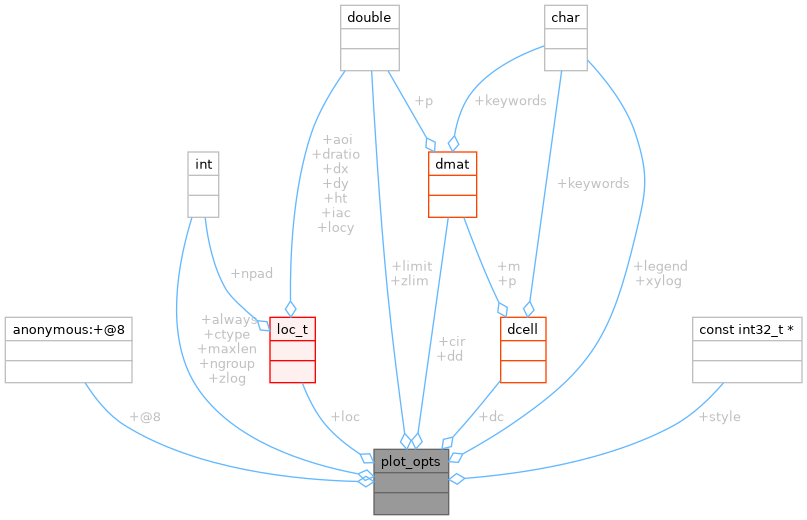
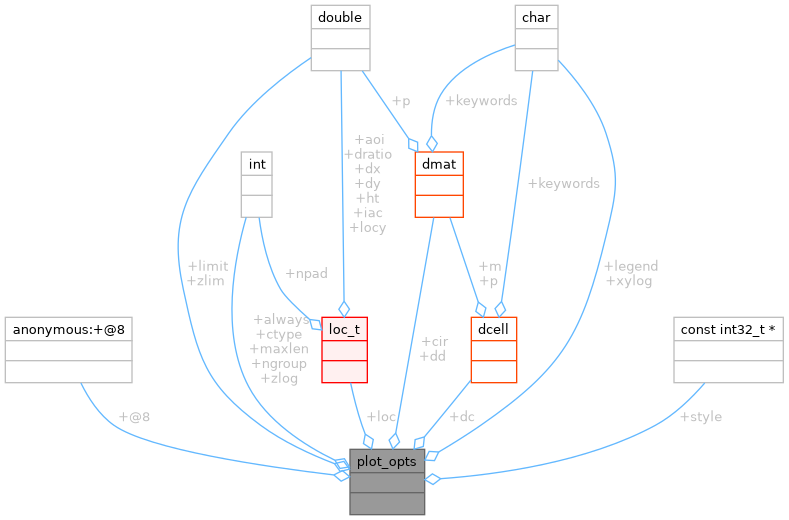
Automatically updated

diff --git a/de/d28/draw_8h.html b/de/d28/draw_8h.html
@@ -162,29 +162,29 @@ int&#160;</td><td class="memItemRight" valign="bottom"><b>draw_current_format</b
 <div id="dynsection-0-content" class="dyncontent" style="display:none;">
 <div class="center"><img src="../../d6/dd8/structplot__opts__coll__graph.png" border="0" usemap="#aplot__opts_coll__map" alt="Collaboration graph"/></div>
 <map name="aplot__opts_coll__map" id="aplot__opts_coll__map">
-<area shape="rect" title=" " alt="" coords="374,449,449,515"/>
+<area shape="rect" title=" " alt="" coords="350,449,425,515"/>
 <area shape="rect" title=" " alt="" coords="5,317,132,383"/>
-<area shape="poly" title=" " alt="" coords="87,381,104,404,126,423,184,450,246,467,306,476,358,479,358,484,306,481,245,472,182,455,123,428,100,408,83,384"/>
-<area shape="rect" title=" " alt="" coords="188,152,219,217"/>
-<area shape="poly" title=" " alt="" coords="195,218,185,255,179,299,183,344,189,365,199,385,214,404,231,420,272,444,317,461,358,471,357,476,315,466,270,449,228,424,210,407,194,388,184,367,177,345,174,299,180,254,189,217"/>
-<area shape="rect" href="../../df/def/type_8h.html#da/ddc/structloc__t" title=" " alt="" coords="270,317,315,383"/>
-<area shape="poly" title=" " alt="" coords="208,217,214,253,228,288,259,319,255,322,224,291,209,254,203,218"/>
-<area shape="poly" title=" " alt="" coords="305,382,315,403,328,424,362,452,358,456,324,427,310,406,300,384"/>
-<area shape="rect" title=" " alt="" coords="341,5,399,71"/>
-<area shape="poly" title=" " alt="" coords="374,71,390,289,407,433,402,434,385,290,369,71"/>
-<area shape="poly" title=" " alt="" coords="347,72,329,102,314,134,303,177,296,221,293,301,288,301,291,221,298,176,309,132,324,99,343,69"/>
-<area shape="rect" href="../../d3/d27/structdmat.html" title=" " alt="" coords="429,152,477,217"/>
-<area shape="poly" title=" " alt="" coords="390,70,429,136,424,139,386,72"/>
-<area shape="poly" title=" " alt="" coords="451,218,421,433,415,433,446,217"/>
-<area shape="rect" href="../../df/def/type_8h.html#df/d47/structdcell" title=" " alt="" coords="501,317,546,383"/>
-<area shape="poly" title=" " alt="" coords="466,217,495,288,501,301,496,303,490,290,461,219"/>
-<area shape="rect" title=" " alt="" coords="545,5,587,71"/>
-<area shape="poly" title=" " alt="" coords="590,58,616,91,638,132,645,161,647,184,638,237,620,300,597,348,563,388,512,428,464,456,462,452,508,423,560,384,593,345,615,298,633,235,642,184,640,162,633,134,612,94,586,62"/>
-<area shape="poly" title=" " alt="" coords="546,48,507,66,488,79,472,96,462,115,457,136,452,135,458,113,468,93,484,75,504,61,543,43"/>
-<area shape="poly" title=" " alt="" coords="564,71,533,302,527,301,559,70"/>
-<area shape="poly" title=" " alt="" coords="503,382,465,427,455,439,451,435,461,424,498,379"/>
-<area shape="rect" title=" " alt="" coords="693,317,802,383"/>
-<area shape="poly" title=" " alt="" coords="725,385,703,408,675,428,622,451,566,466,512,476,465,481,465,476,511,471,565,461,620,446,673,423,699,404,721,381"/>
+<area shape="poly" title=" " alt="" coords="83,382,97,404,115,423,154,440,211,454,334,472,333,478,210,459,152,445,113,428,93,408,79,384"/>
+<area shape="rect" title=" " alt="" coords="311,5,370,71"/>
+<area shape="poly" title=" " alt="" coords="313,60,271,92,231,135,204,174,187,208,181,244,186,289,196,333,209,366,229,394,262,423,298,445,336,461,333,466,296,450,259,427,225,398,204,369,191,334,181,290,176,243,182,206,200,171,227,132,267,88,310,55"/>
+<area shape="rect" href="../../df/def/type_8h.html#da/ddc/structloc__t" title=" " alt="" coords="322,317,367,383"/>
+<area shape="poly" title=" " alt="" coords="344,71,347,301,341,301,338,71"/>
+<area shape="rect" href="../../d3/d27/structdmat.html" title=" " alt="" coords="415,152,463,217"/>
+<area shape="poly" title=" " alt="" coords="365,69,411,137,406,140,360,72"/>
+<area shape="rect" title=" " alt="" coords="241,152,272,217"/>
+<area shape="poly" title=" " alt="" coords="249,218,240,254,235,297,237,343,251,385,267,409,288,428,336,458,333,462,285,433,263,412,246,388,232,344,230,297,235,253,244,217"/>
+<area shape="poly" title=" " alt="" coords="262,217,269,253,283,288,311,317,307,321,278,291,264,254,257,218"/>
+<area shape="poly" title=" " alt="" coords="353,382,365,425,368,433,363,435,359,426,348,383"/>
+<area shape="poly" title=" " alt="" coords="436,218,398,433,393,433,431,217"/>
+<area shape="rect" href="../../df/def/type_8h.html#df/d47/structdcell" title=" " alt="" coords="471,317,517,383"/>
+<area shape="poly" title=" " alt="" coords="452,217,477,288,481,301,476,303,471,290,447,219"/>
+<area shape="rect" title=" " alt="" coords="515,5,558,71"/>
+<area shape="poly" title=" " alt="" coords="560,58,587,91,608,132,616,161,618,184,609,237,591,300,568,347,534,387,482,428,440,454,437,450,479,423,530,383,563,344,586,298,603,235,613,184,611,162,604,134,583,94,556,62"/>
+<area shape="poly" title=" " alt="" coords="516,47,477,65,458,78,443,96,436,115,434,136,429,135,431,114,438,93,454,74,474,60,514,43"/>
+<area shape="poly" title=" " alt="" coords="535,71,506,290,504,302,499,301,501,289,530,71"/>
+<area shape="poly" title=" " alt="" coords="473,382,436,427,426,439,422,435,432,424,469,378"/>
+<area shape="rect" title=" " alt="" coords="674,317,783,383"/>
+<area shape="poly" title=" " alt="" coords="707,385,684,408,657,428,602,451,544,467,489,476,441,481,440,476,488,471,543,462,600,446,654,423,681,404,703,381"/>
 </map>
 </div>
 <table class="fieldtable">
@@ -193,42 +193,6 @@ int&#160;</td><td class="memItemRight" valign="bottom"><b>draw_current_format</b
 <a id="a58aabed6678863f74043f106b872a874" name="a58aabed6678863f74043f106b872a874"></a>union <a class="el" href="../../de/d28/draw_8h.html#dd/d34/unionplot__opts_8____unnamed8____">plot_opts.__unnamed8__</a></td>
 <td class="fieldname">
 __unnamed__</td>
-<td class="fielddoc">
-</td></tr>
-<tr><td class="fieldtype">
-<a id="a45aba71d793c975b2917a795c68a2083" name="a45aba71d793c975b2917a795c68a2083"></a>int</td>
-<td class="fieldname">
-ngroup</td>
-<td class="fielddoc">
-</td></tr>
-<tr><td class="fieldtype">
-<a id="ac21e46b3e42072d5401f11d728402070" name="ac21e46b3e42072d5401f11d728402070"></a>int</td>
-<td class="fieldname">
-maxlen</td>
-<td class="fielddoc">
-number of lines </td></tr>
-<tr><td class="fieldtype">
-<a id="a21f274cacd6006de0eab6a2ac12a0875" name="a21f274cacd6006de0eab6a2ac12a0875"></a><a class="el" href="../../df/def/type_8h.html#da/ddc/structloc__t">loc_t</a> **</td>
-<td class="fieldname">
-loc</td>
-<td class="fielddoc">
-limit maximum nx </td></tr>
-<tr><td class="fieldtype">
-<a id="ab5f7fddc86d50ca44c53b141b72e509a" name="ab5f7fddc86d50ca44c53b141b72e509a"></a><a class="el" href="../../d3/d27/structdmat.html">dmat</a> **</td>
-<td class="fieldname">
-dd</td>
-<td class="fielddoc">
-</td></tr>
-<tr><td class="fieldtype">
-<a id="a7e74316d7e62b72c8bbe0aeb3471a081" name="a7e74316d7e62b72c8bbe0aeb3471a081"></a>const <a class="el" href="../../df/def/type_8h.html#df/d47/structdcell">dcell</a> *</td>
-<td class="fieldname">
-dc</td>
-<td class="fielddoc">
-</td></tr>
-<tr><td class="fieldtype">
-<a id="a2aed35de5578898c2c69cc3a6722c725" name="a2aed35de5578898c2c69cc3a6722c725"></a>const int32_t *</td>
-<td class="fieldname">
-style</td>
 <td class="fielddoc">
 </td></tr>
 <tr><td class="fieldtype">
@@ -253,6 +217,42 @@ zlog</td>
 <a id="a63f75aca74bd384d75bc1e09e38cb0c5" name="a63f75aca74bd384d75bc1e09e38cb0c5"></a>const int</td>
 <td class="fieldname">
 ctype</td>
+<td class="fielddoc">
+</td></tr>
+<tr><td class="fieldtype">
+<a id="a45aba71d793c975b2917a795c68a2083" name="a45aba71d793c975b2917a795c68a2083"></a>int</td>
+<td class="fieldname">
+ngroup</td>
+<td class="fielddoc">
+</td></tr>
+<tr><td class="fieldtype">
+<a id="ac21e46b3e42072d5401f11d728402070" name="ac21e46b3e42072d5401f11d728402070"></a>int</td>
+<td class="fieldname">
+maxlen</td>
+<td class="fielddoc">
+number of lines. 0: automatic </td></tr>
+<tr><td class="fieldtype">
+<a id="a21f274cacd6006de0eab6a2ac12a0875" name="a21f274cacd6006de0eab6a2ac12a0875"></a><a class="el" href="../../df/def/type_8h.html#da/ddc/structloc__t">loc_t</a> **</td>
+<td class="fieldname">
+loc</td>
+<td class="fielddoc">
+maximum nx to plot </td></tr>
+<tr><td class="fieldtype">
+<a id="ab5f7fddc86d50ca44c53b141b72e509a" name="ab5f7fddc86d50ca44c53b141b72e509a"></a><a class="el" href="../../d3/d27/structdmat.html">dmat</a> **</td>
+<td class="fieldname">
+dd</td>
+<td class="fielddoc">
+</td></tr>
+<tr><td class="fieldtype">
+<a id="a7e74316d7e62b72c8bbe0aeb3471a081" name="a7e74316d7e62b72c8bbe0aeb3471a081"></a>const <a class="el" href="../../df/def/type_8h.html#df/d47/structdcell">dcell</a> *</td>
+<td class="fieldname">
+dc</td>
+<td class="fielddoc">
+</td></tr>
+<tr><td class="fieldtype">
+<a id="a2aed35de5578898c2c69cc3a6722c725" name="a2aed35de5578898c2c69cc3a6722c725"></a>const int32_t *</td>
+<td class="fieldname">
+style</td>
 <td class="fielddoc">
 </td></tr>
 <tr><td class="fieldtype">

diff --git a/search/variables_b.js b/search/variables_b.js
@@ -9,7 +9,7 @@ var searchData=
   ['maxthread_6',['MAXTHREAD',['../da/d42/process_8h.html#aaf201d9c154f29dd2853b04a1ec9533f',1,'process.c']]],
   ['mbias_7',['mbias',['../d6/d94/maos_2types_8h.html#abd26885c51687b07f15a7438603bcacd',1,'ngsmod_t::Mbias'],['../d6/d94/maos_2types_8h.html#a7cd066322923153ad7017641207677d3',1,'sim_t::Mbias']]],
   ['mbinv_8',['Mbinv',['../d6/d94/maos_2types_8h.html#ad0e43cd4a0ccf988001caf1fb04b8cbb',1,'fdpcg_t']]],
-  ['mcc_9',['mcc',['../d6/d94/maos_2types_8h.html#a58140cc6c4f3719762527d79564ae797',1,'ngsmod_t::MCC'],['../d6/d94/maos_2types_8h.html#a14fef4d4fa3e3e07f6aab1dacd9cdda5',1,'llt_t::mcc']]],
+  ['mcc_9',['mcc',['../d6/d94/maos_2types_8h.html#a14fef4d4fa3e3e07f6aab1dacd9cdda5',1,'llt_t::mcc'],['../d6/d94/maos_2types_8h.html#a58140cc6c4f3719762527d79564ae797',1,'ngsmod_t::MCC']]],
   ['mccp_10',['MCCP',['../d6/d94/maos_2types_8h.html#a19b11645d2b5beb485409dc0d18a3416',1,'ngsmod_t']]],
   ['mccu_11',['MCCu',['../d6/d94/maos_2types_8h.html#ac538ab602aefc638055c95ae48c7795e',1,'ngsmod_t']]],
   ['mdata_12',['Mdata',['../d3/dc7/muv_8h.html#aa30689f9fb9ae039a0fc04175ba7134d',1,'muv_t']]],
@@ -67,7 +67,7 @@ var searchData=
   ['mva_64',['MVA',['../d6/d94/maos_2types_8h.html#ad5dbb605c4c0a76ac31494bb3f705890',1,'recon_t']]],
   ['mvfm_65',['MVFM',['../d6/d94/maos_2types_8h.html#ae2fee7d4211a1cf9fd8131534944cbbe',1,'recon_t']]],
   ['mvgm_66',['MVGM',['../d6/d94/maos_2types_8h.html#a7ff7b32ce8673b59b357331ac46108c9',1,'recon_t']]],
-  ['mvm_67',['mvm',['../d6/d94/maos_2types_8h.html#a64905f799b035a2bef86639f9b05125e',1,'recon_t::MVM'],['../d4/d38/parms_8h.html#a9d9f17deafa9a0dcc11f8934548b230d',1,'save_cfg_t::mvm'],['../d4/d38/parms_8h.html#a3a42d00f6d686f813ec7edbcee448c5d',1,'load_cfg_t::mvm'],['../d4/d38/parms_8h.html#a368695bc152258fd6d6af9d2439588fa',1,'recon_cfg_t::mvm']]],
+  ['mvm_67',['mvm',['../d4/d38/parms_8h.html#a368695bc152258fd6d6af9d2439588fa',1,'recon_cfg_t::mvm'],['../d6/d94/maos_2types_8h.html#a64905f799b035a2bef86639f9b05125e',1,'recon_t::MVM'],['../d4/d38/parms_8h.html#a9d9f17deafa9a0dcc11f8934548b230d',1,'save_cfg_t::mvm'],['../d4/d38/parms_8h.html#a3a42d00f6d686f813ec7edbcee448c5d',1,'load_cfg_t::mvm']]],
   ['mvmf_68',['mvmf',['../d4/d38/parms_8h.html#a3f479c281d1377566c69e36aaea9fc68',1,'load_cfg_t::mvmf'],['../d4/d38/parms_8h.html#a69e673fb0e04e5226d1d7ca8ad89efad',1,'save_cfg_t::mvmf']]],
   ['mvmhost_69',['mvmhost',['../d4/d38/parms_8h.html#a37c4ee23162105a65c1b668168f9fb97',1,'sim_cfg_t']]],
   ['mvmi_70',['mvmi',['../d4/d38/parms_8h.html#a701644eb57a6a3f72e8d0f89ce3c4f93',1,'load_cfg_t::mvmi'],['../d4/d38/parms_8h.html#af51e85df2edc283cb102da820239a1d5',1,'save_cfg_t::mvmi']]],

diff --git a/search/all_10.js b/search/all_10.js
@@ -60,7 +60,7 @@ var searchData=
   ['mcao_5fbase_20conf_57',['mcao_base.conf',['../d2/d76/mcao_base.html',1,'page34_conf']]],
   ['mcao_5flgs_20conf_58',['mcao_lgs.conf',['../dd/d10/mcao_lgs.html',1,'page34_conf']]],
   ['mcao_5fngs_20conf_59',['mcao_ngs.conf',['../d7/d15/mcao_ngs.html',1,'page34_conf']]],
-  ['mcc_60',['mcc',['../d6/d94/maos_2types_8h.html#a58140cc6c4f3719762527d79564ae797',1,'ngsmod_t::MCC'],['../d6/d94/maos_2types_8h.html#a14fef4d4fa3e3e07f6aab1dacd9cdda5',1,'llt_t::mcc']]],
+  ['mcc_60',['mcc',['../d6/d94/maos_2types_8h.html#a14fef4d4fa3e3e07f6aab1dacd9cdda5',1,'llt_t::mcc'],['../d6/d94/maos_2types_8h.html#a58140cc6c4f3719762527d79564ae797',1,'ngsmod_t::MCC']]],
   ['mccp_61',['MCCP',['../d6/d94/maos_2types_8h.html#a19b11645d2b5beb485409dc0d18a3416',1,'ngsmod_t']]],
   ['mccu_62',['MCCu',['../d6/d94/maos_2types_8h.html#ac538ab602aefc638055c95ae48c7795e',1,'ngsmod_t']]],
   ['mdata_63',['Mdata',['../d3/dc7/muv_8h.html#aa30689f9fb9ae039a0fc04175ba7134d',1,'muv_t']]],
@@ -189,7 +189,7 @@ var searchData=
   ['mva_186',['MVA',['../d6/d94/maos_2types_8h.html#ad5dbb605c4c0a76ac31494bb3f705890',1,'recon_t']]],
   ['mvfm_187',['MVFM',['../d6/d94/maos_2types_8h.html#ae2fee7d4211a1cf9fd8131534944cbbe',1,'recon_t']]],
   ['mvgm_188',['MVGM',['../d6/d94/maos_2types_8h.html#a7ff7b32ce8673b59b357331ac46108c9',1,'recon_t']]],
-  ['mvm_189',['mvm',['../d4/d38/parms_8h.html#a9d9f17deafa9a0dcc11f8934548b230d',1,'save_cfg_t::mvm'],['../d4/d38/parms_8h.html#a3a42d00f6d686f813ec7edbcee448c5d',1,'load_cfg_t::mvm'],['../d4/d38/parms_8h.html#a368695bc152258fd6d6af9d2439588fa',1,'recon_cfg_t::mvm'],['../d6/d94/maos_2types_8h.html#a64905f799b035a2bef86639f9b05125e',1,'recon_t::MVM']]],
+  ['mvm_189',['mvm',['../d6/d94/maos_2types_8h.html#a64905f799b035a2bef86639f9b05125e',1,'recon_t::MVM'],['../d4/d38/parms_8h.html#a9d9f17deafa9a0dcc11f8934548b230d',1,'save_cfg_t::mvm'],['../d4/d38/parms_8h.html#a3a42d00f6d686f813ec7edbcee448c5d',1,'load_cfg_t::mvm'],['../d4/d38/parms_8h.html#a368695bc152258fd6d6af9d2439588fa',1,'recon_cfg_t::mvm']]],
   ['mvm_5fdirect_2ecu_190',['mvm_direct.cu',['../d5/def/mvm__direct_8cu.html',1,'']]],
   ['mvm_5figpu_5ft_191',['mvm_igpu_t',['../d8/d36/mvm__trans_8cu.html#d8/dd6/structmvm__igpu__t',1,'']]],
   ['mvm_5ftrans_2ecu_192',['mvm_trans.cu',['../d8/d36/mvm__trans_8cu.html',1,'']]],
